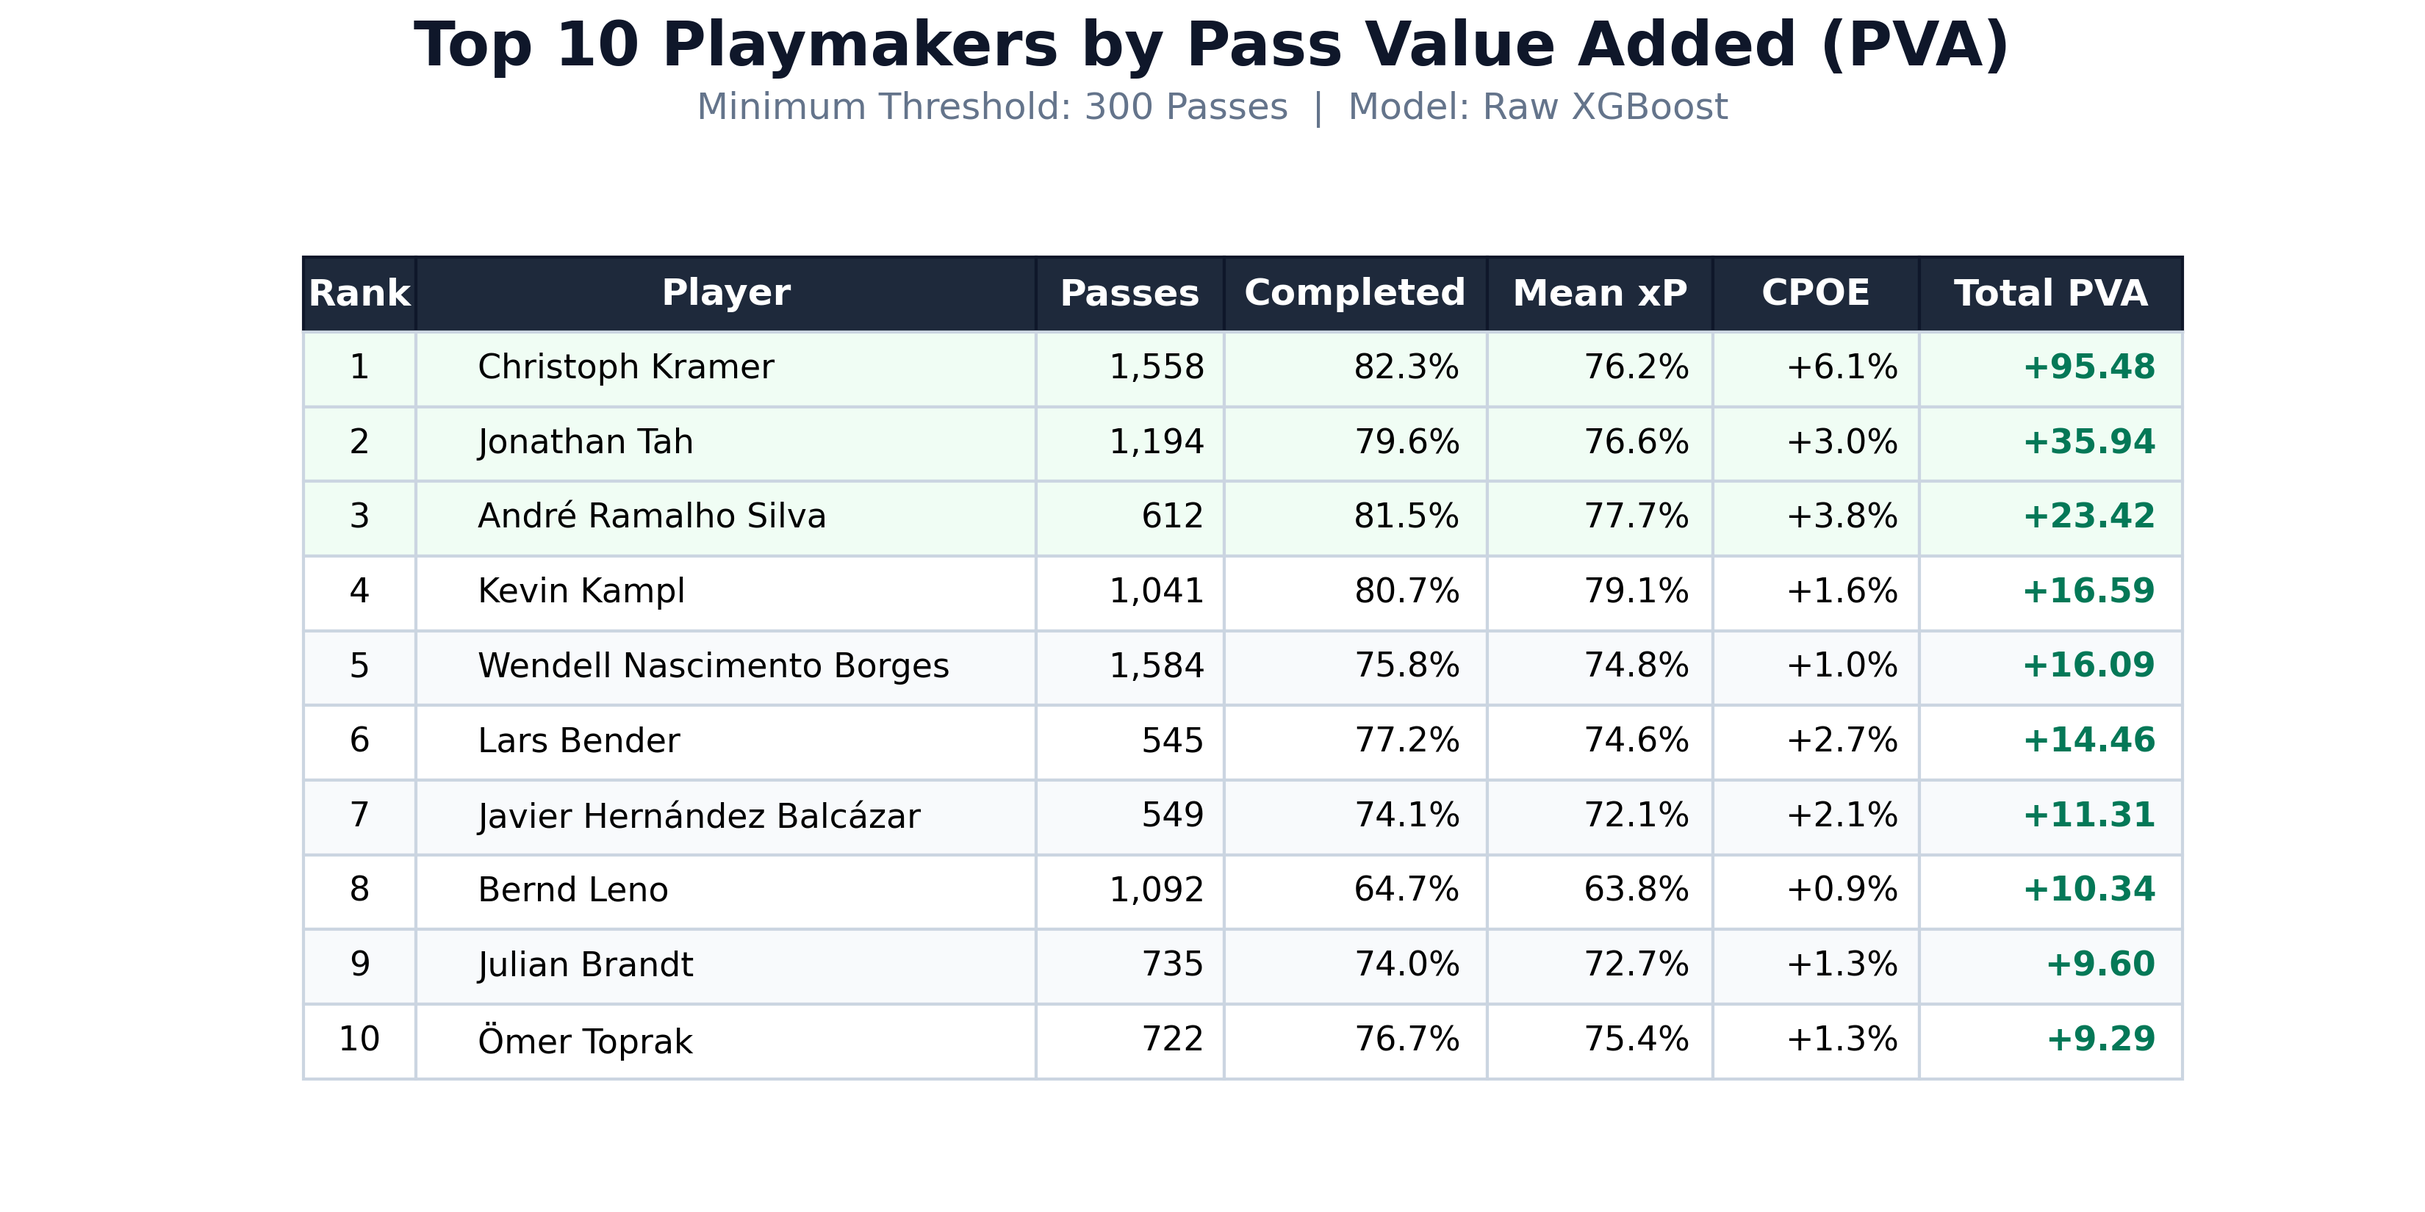
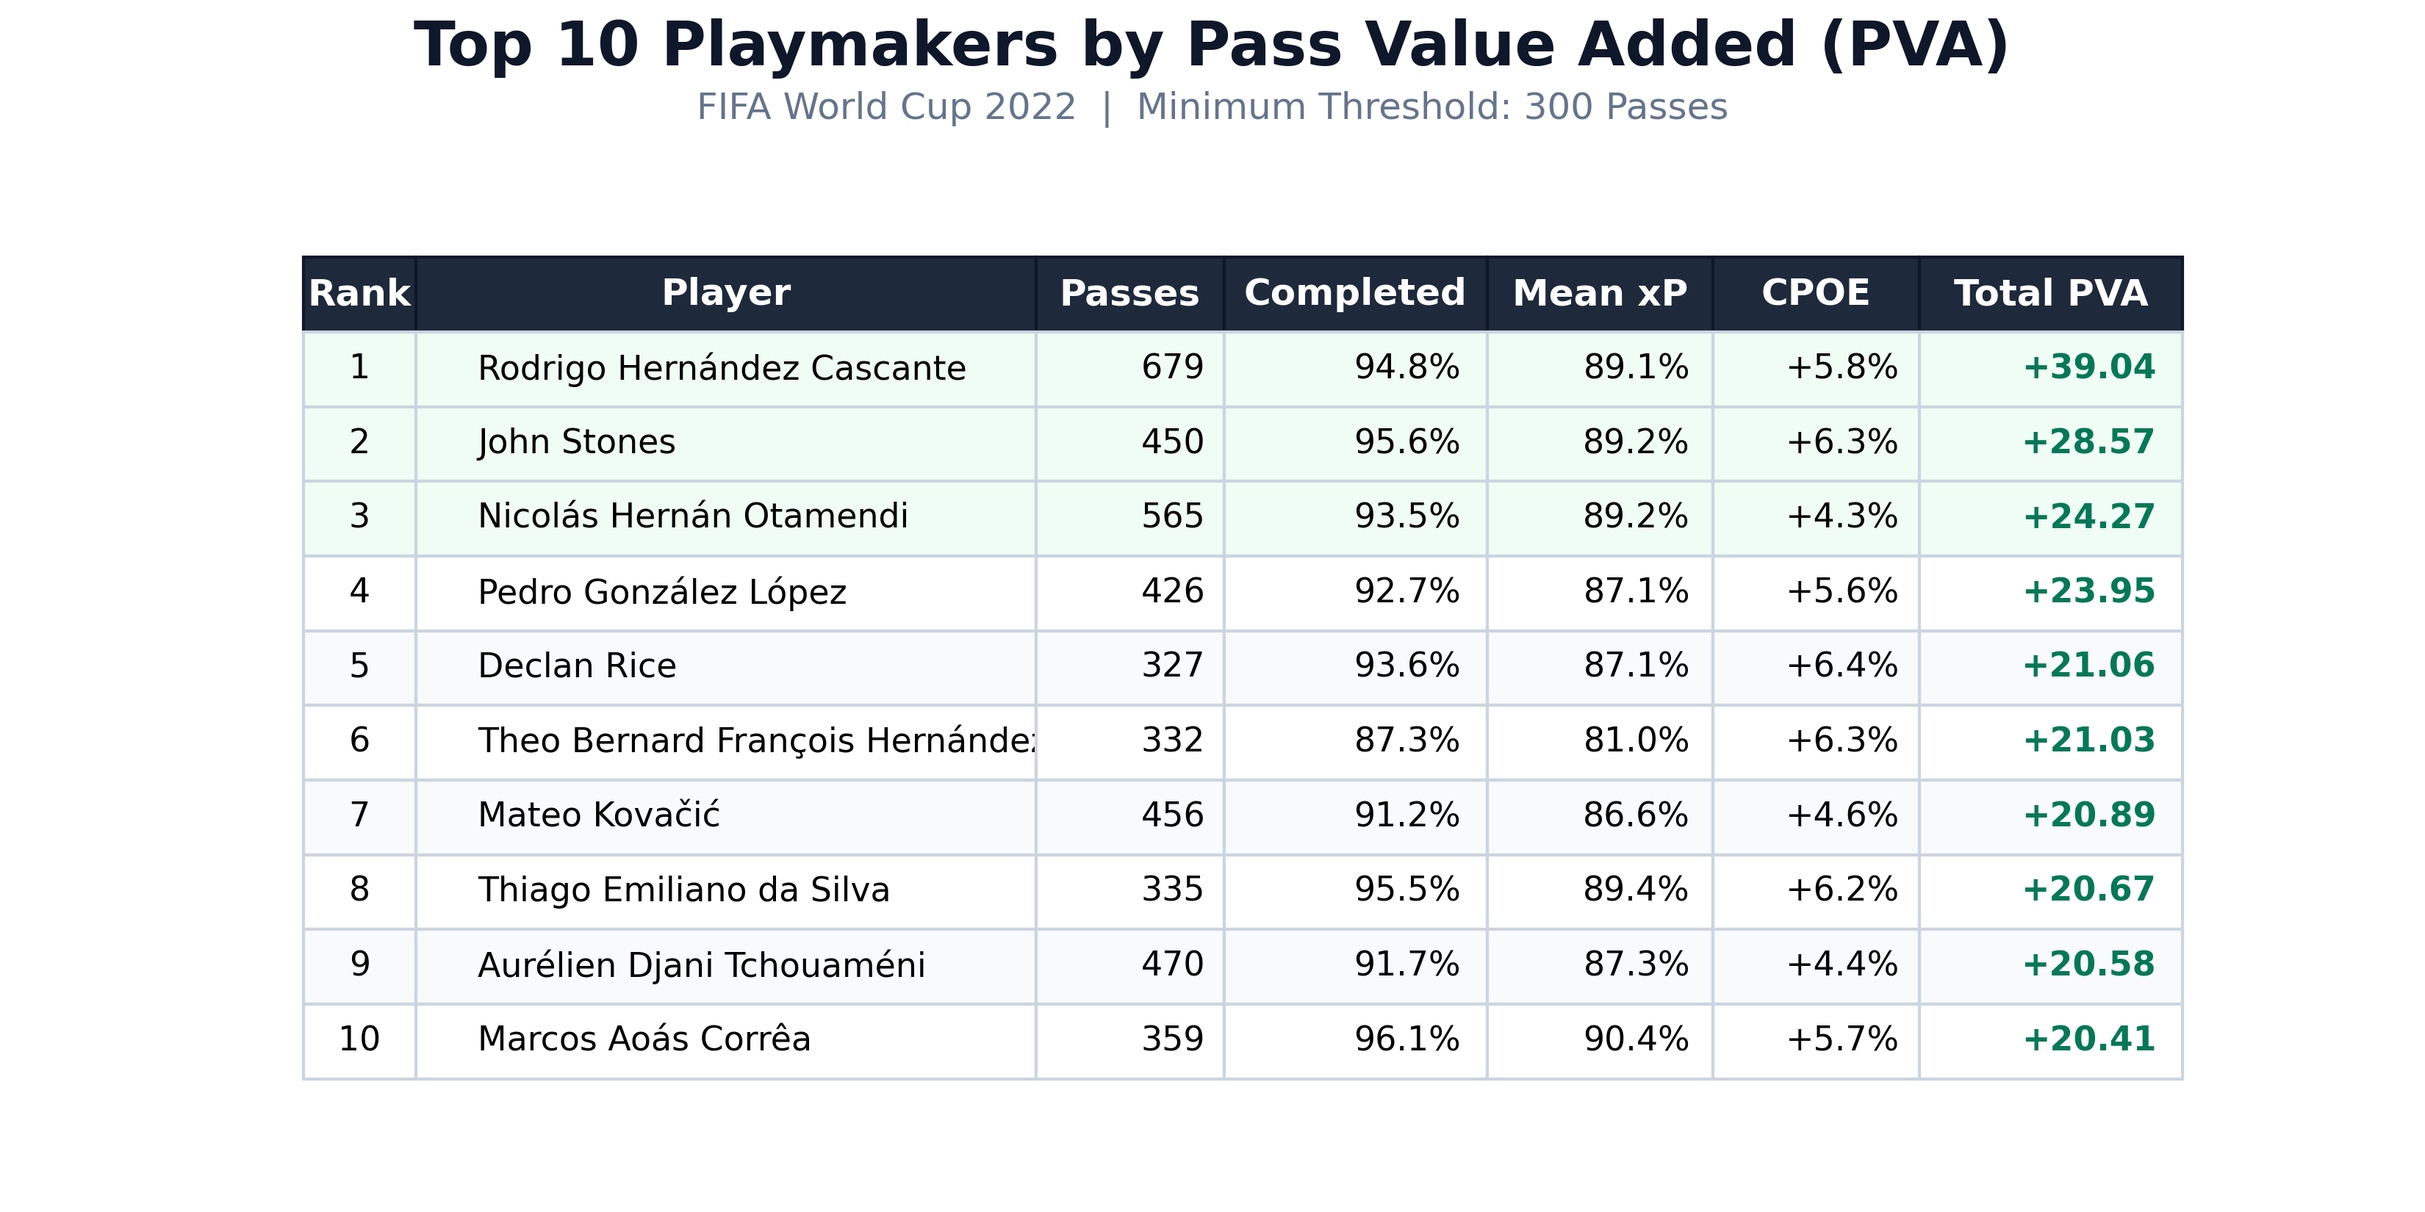
Add league and season to chart subtitles, restyle the pass map and player scatter, and update the README with full-data results after the pass_angle leakage fix and all four example charts.

diff --git a/src/visualizations_pipeline.py b/src/visualizations_pipeline.py
@@ -176,13 +176,14 @@ def draw_leaderboard_table(
     player_df: pd.DataFrame,
     top_n: int = 10,
     min_passes: int = 300,
-    model_label: Optional[str] = None,
+    scope_label: Optional[str] = None,
 ) -> plt.Figure:
     """
     Renders a table of the `top_n` players with the highest total PVA, among players
     with at least `min_passes` passes. The top three rows are highlighted.
 
-    `model_label` (e.g. "Calibrated XGBoost") is shown in the subtitle when given.
+    `scope_label` (the league and season, e.g. "La Liga 2015/2016") is shown in the
+    subtitle when given.
 
     Columns: rank, player, passes, actual completion %, mean xP, CPOE and total PVA.
     """
@@ -276,8 +277,8 @@ def draw_leaderboard_table(
         ha='center', va='center', fontsize=20, weight='bold', color='#0f172a', fontname='DejaVu Sans'
     )
     subtitle = f'Minimum Threshold: {min_passes} Passes'
-    if model_label:
-        subtitle += f'  |  Model: {model_label}'
+    if scope_label:
+        subtitle = f'{scope_label}  |  {subtitle}'
     fig.text(
         0.5, 0.91,
         subtitle,
@@ -320,6 +321,11 @@ Z_SCATTER_FG = 4
 Z_LABELS = 6
 Z_CALLOUTS = 10
 Z_LEGEND = 20
+
+
+def _with_scope(subtitle: str, scope_label: Optional[str]) -> str:
+    """Prefixes a subtitle with the league and season it covers, when one is given."""
+    return f"{scope_label}  ·  {subtitle}" if scope_label else subtitle
 
 
 def shorten_player_name(full_name: str, name_overrides: Optional[Dict[str, str]] = None) -> str:
@@ -420,12 +426,14 @@ def plot_pass_risk_execution(
     label_poor_n: int = 3,
     label_average: bool = False,
     name_overrides: Optional[Dict[str, str]] = None,
-    legend_anchor: Tuple[float, float] = (0.985, 0.5),
+    legend_anchor: Tuple[float, float] = (1.02, 0.5),
     model_label: Optional[str] = None,
+    scope_label: Optional[str] = None,
 ) -> plt.Figure:
     """
     Plots each player's mean xP (x) against their actual completion % (y).
-    `model_label` (e.g. "Calibrated XGBoost") is named in the footnote when given.
+    `model_label` (e.g. "Calibrated XGBoost") is named in the footnote and `scope_label`
+    (e.g. "La Liga 2015/2016") in the subtitle when given.
 
     The dashed diagonal is "completed exactly as many passes as expected". Players above it
     beat the model, players below it fall short, and the vertical distance from the line
@@ -457,10 +465,12 @@ def plot_pass_risk_execution(
     sizes = _scaled_bubble_sizes(df['total_passes'])
 
     plt.rcParams['font.family'] = FONT
-    fig, ax = plt.subplots(figsize=(13, 8.8), dpi=300)
+    fig, ax = plt.subplots(figsize=(14, 8.8), dpi=300)
     fig.patch.set_facecolor(PALETTE["bg_figure"])
     ax.set_facecolor(PALETTE["bg_axes"])
-    fig.subplots_adjust(top=0.89, bottom=0.11, left=0.08, right=0.96)
+    # The axes stop at 74% of the width, leaving room for the legend on the right
+    left, right = 0.08, 0.74
+    fig.subplots_adjust(top=0.87, bottom=0.11, left=left, right=right)
 
     # Background shading: actual minus expected at every point of the chart, so the colour
     # itself shows CPOE (green above the diagonal, red below)
@@ -558,16 +568,17 @@ def plot_pass_risk_execution(
         ax.spines[side].set_color(PALETTE["spine"])
         ax.spines[side].set_linewidth(1.1)
 
-    fig.text(0.52, 0.97, "Pass Risk vs. Execution", fontsize=24, weight="bold",
+    cx = (left + right) / 2
+    fig.text(cx, 0.945, "Pass Risk vs. Execution", fontsize=24, weight="bold",
               color=PALETTE["text_dark"], ha="center")
-    fig.text(0.52, 0.935, "Completion Percentage Over Expected (CPOE) — who beats their model, and by how much",
+    fig.text(cx, 0.905, _with_scope("Completion Percentage Over Expected (CPOE) — who beats their model", scope_label),
               fontsize=13, color=PALETTE["text_mid"], ha="center")
-    fig.text(0.96, 0.97, f"n = {len(df)}", fontsize=11, color=PALETTE["text_light"],
+    fig.text(0.96, 0.945, f"n = {len(df)}", fontsize=11, color=PALETTE["text_light"],
               ha="right", weight="bold")
-    fig.text(0.96, 0.948, f"min. {min_passes} passes", fontsize=9.5, color=PALETTE["text_light"], ha="right")
+    fig.text(0.96, 0.922, f"min. {min_passes} passes", fontsize=9.5, color=PALETTE["text_light"], ha="right")
 
     model_note = f"Model: {model_label}  ·  " if model_label else ""
-    fig.text(0.08, 0.015,
+    fig.text(left, 0.015,
               f"Dashed line: y = x (expected completion)  ·  {model_note}"
               "bubble size ∝ total pass volume  ·  background shade ∝ CPOE",
               fontsize=9.5, color=PALETTE["text_light"], ha="left", style="italic")
@@ -608,10 +619,10 @@ def plot_pass_risk_execution(
 
     combo_legend = ax.legend(
         combo_handles, combo_labels,
-        loc='center right', bbox_to_anchor=legend_anchor,
+        loc='center left', bbox_to_anchor=legend_anchor,
         frameon=True, fancybox=True, framealpha=0.94,
         facecolor=PALETTE["legend_face"], edgecolor=PALETTE["spine"],
-        fontsize=10.5, handletextpad=0.9, labelspacing=0.75, borderpad=1.0,
+        fontsize=10, handletextpad=0.9, labelspacing=0.75, borderpad=1.0,
     )
     combo_legend.set_zorder(Z_LEGEND)
 
@@ -642,9 +653,11 @@ def plot_team_pass_quadrants(
     label_all: bool = True,
     max_labels: Optional[int] = 30,
     legend_anchor: Tuple[float, float] = (1.02, 0.5),
+    scope_label: Optional[str] = None,
 ) -> plt.Figure:
     """
     Plots each team's mean xP (x) against its CPOE (y), sized by pass volume.
+    `scope_label` (e.g. "La Liga 2015/2016") is shown in the subtitle when given.
 
     The dotted crosshairs at the league-average xP and CPOE split the chart into four
     styles of play, from "aggressive & executing" (top-left) to "safe & struggling"
@@ -783,7 +796,7 @@ def plot_team_pass_quadrants(
     cx = (left + right) / 2
     fig.text(cx, 0.945, "Team Pass Risk vs. Execution", fontsize=24, weight="bold",
              color=PALETTE["text_dark"], ha="center")
-    fig.text(cx, 0.905, "Mean xP vs. Completion Percentage Over Expected (CPOE) — who takes risk, who delivers",
+    fig.text(cx, 0.905, _with_scope("Mean xP vs. CPOE — who takes risk, who delivers", scope_label),
              fontsize=13, color=PALETTE["text_mid"], ha="center")
     fig.text(0.96, 0.945, f"n = {len(df)}", fontsize=11, color=PALETTE["text_light"],
              ha="right", weight="bold")
@@ -862,13 +875,14 @@ PASS_REQUIRED_COLUMNS = [
     "pass_outcome", "xP",
 ]
 
-# Dark pitch theme for the pass map
-BG_COLOR = "#0f172a"
-LINE_COLOR = "#334155"
+# Dark green pitch theme for the pass map. The completed-pass green leans towards yellow
+# (lime) so it stands out from the pitch instead of blending into it.
+BG_COLOR = "#0b3d20"
+LINE_COLOR = "#5f8f6e"
 TITLE_COLOR = "#f8fafc"
-SUBTITLE_COLOR = "#94a3b8"
-COMPLETE_COLOR = "#10b981"
-FAILED_COLOR = "#ef4444"
+SUBTITLE_COLOR = "#b7d3bf"
+COMPLETE_COLOR = "#7dff3a"
+FAILED_COLOR = "#ff3b3b"
 
 
 def _prepare_pva(pva_df: pd.DataFrame) -> pd.DataFrame:
@@ -946,13 +960,14 @@ def plot_top_player_pass_map(
     passes_df: pd.DataFrame,
     min_passes: int = 300,
     figsize: tuple[float, float] = (13, 9),
+    scope_label: Optional[str] = None,
 ) -> Figure:
     """
     Draws every pass attempted by the player with the highest total PVA.
 
     Completed passes are green and failed passes red, on a StatsBomb pitch with play
-    going left to right. The subtitle compares the player's completion rate with their
-    mean xP and shows their total PVA.
+    going left to right. The subtitle names the league and season (`scope_label`, when
+    given), compares the player's completion rate with their mean xP and shows their total PVA.
     """
     pva_data = _prepare_pva(pva_df)
     pass_data = _prepare_passes(passes_df)
@@ -996,14 +1011,14 @@ def plot_top_player_pass_map(
         pitch.arrows(
             completed["start_x"], completed["start_y"],
             completed["end_x"], completed["end_y"],
-            ax=ax, color=COMPLETE_COLOR, alpha=0.70,
+            ax=ax, color=COMPLETE_COLOR, alpha=0.80,
             width=1.6, headwidth=3, headlength=3, zorder=2,
         )
     if not failed.empty:
         pitch.arrows(
             failed["start_x"], failed["start_y"],
             failed["end_x"], failed["end_y"],
-            ax=ax, color=FAILED_COLOR, alpha=0.90,
+            ax=ax, color=FAILED_COLOR, alpha=0.95,
             width=1.8, headwidth=3, headlength=3, zorder=3,
         )
 
@@ -1011,7 +1026,7 @@ def plot_top_player_pass_map(
     cpoe_sign = "+" if cpoe >= 0 else "−"
 
     ax.text(
-        0.0, 1.11, f"{player_name} — Pass Map & Value Added (PVA)",
+        0.0, 1.11, f"{player_name} — Pass Map",
         transform=ax.transAxes, ha="left", va="bottom",
         fontsize=21, fontweight="bold", color=TITLE_COLOR,
     )
@@ -1019,6 +1034,8 @@ def plot_top_player_pass_map(
         f"{n_passes:,} passes  |  Completion {actual_pct:.1f}% vs. expected {expected_pct:.1f}%  |  "
         f"CPOE {cpoe_sign}{abs(cpoe):.1f} pp  |  Net PVA {pva_sign}{abs(total_pva):.2f}"
     )
+    if scope_label:
+        subtitle = f"{scope_label}  |  {subtitle}"
     ax.text(
         0.0, 1.05, subtitle,
         transform=ax.transAxes, ha="left", va="bottom",

diff --git a/run_files/run_visualizations.py b/run_files/run_visualizations.py
@@ -150,6 +150,36 @@ def match_ids_in_scope(league: str, season: str) -> set:
     return {os.path.splitext(os.path.basename(p))[0] for p in glob.glob(pattern, recursive=True)}
 
 
+def scope_of_matches(match_ids) -> tuple:
+    """
+    Works out the (league, season) that a set of match ids comes from, using the raw
+    folder each match file sits in. season is None when the matches span several seasons
+    of one league, and both are None when they span several leagues.
+    """
+    match_ids = {str(m) for m in match_ids}
+    folders = set()
+    for path in glob.glob(os.path.join(RAW_DIR, "*", "*", "*.json")):
+        if os.path.splitext(os.path.basename(path))[0] in match_ids:
+            season_dir = os.path.dirname(path)
+            folders.add((os.path.basename(os.path.dirname(season_dir)), os.path.basename(season_dir)))
+
+    leagues = {league for league, _ in folders}
+    if len(leagues) != 1:
+        return None, None
+    league = leagues.pop()
+    return league, (folders.pop()[1] if len(folders) == 1 else None)
+
+
+def scope_label(league: str, season: str):
+    """Chart label for a scope, e.g. "La Liga 2015/2016" or "La Liga · all seasons"; None without a league."""
+    if not league:
+        return None
+    if not season:
+        return f"{league} · all seasons"
+    # Season folders use "-" because "/" can't appear in a folder name
+    return f"{league} {season.replace('-', '/')}"
+
+
 def deployed_model_label(model_dir: str):
     """
     Returns which model version a training run deployed ("Calibrated XGBoost" or
@@ -268,6 +298,9 @@ def main():
         post_team_df = pd.read_csv(latest_post_team)
         console.info(f"Team analysis: {os.path.basename(latest_post_team)}")
 
+        # The dataset has no league / season column, so find them from the raw match folders
+        league, season = scope_of_matches(pre_df['match_id'].unique())
+
     console.success(f"Loaded {len(pre_df):,} passes · {len(post_player_df):,} players · {len(post_team_df):,} teams")
 
     n_matches = pre_df['match_id'].nunique()
@@ -281,16 +314,21 @@ def main():
     if min_passes < DEFAULT_MIN_PASSES:
         console.info(f"Minimum passes per player lowered to {min_passes} for this scope (normally {DEFAULT_MIN_PASSES}).")
 
+    # Shown in every chart's subtitle
+    chart_scope = scope_label(league, season)
+
     console.section("Drawing figures")
     console.info("Drawing 4 figures...")
 
-    fig_leaderboard_table = draw_leaderboard_table(post_player_df, min_passes=min_passes, model_label=model_label)
+    fig_leaderboard_table = draw_leaderboard_table(post_player_df, min_passes=min_passes, scope_label=chart_scope)
     console.success("Drew player leaderboard table")
-    fig_plot_pass_risk_execution = plot_pass_risk_execution(post_player_df, min_passes=min_passes, model_label=model_label)
+    fig_plot_pass_risk_execution = plot_pass_risk_execution(post_player_df, min_passes=min_passes, model_label=model_label,
+                                                            scope_label=chart_scope)
     console.success("Drew pass risk vs execution scatter")
-    fig_plot_top_player_pass_map = plot_top_player_pass_map(pva_df=post_player_df, passes_df=pre_df, min_passes=min_passes)
+    fig_plot_top_player_pass_map = plot_top_player_pass_map(pva_df=post_player_df, passes_df=pre_df, min_passes=min_passes,
+                                                            scope_label=chart_scope)
     console.success("Drew top player pass map")
-    fig_plot_team_pass_quadrants = plot_team_pass_quadrants(post_team_df)
+    fig_plot_team_pass_quadrants = plot_team_pass_quadrants(post_team_df, scope_label=chart_scope)
     console.success("Drew team pass quadrants")
 
     # Figures go in the model's "visuals" folder: .../model_<timestamp>/visuals

diff --git a/README.md b/README.md
@@ -4,14 +4,14 @@ xPass is an expected pass-completion model. It gives every pass a probability of
 
 ## Results
 
-These results come from a check run on **1. Bundesliga 2015/2016** (**30,934 passes**, **34 matches**). The test set is about 15% of the matches (6 matches, 5,614 passes), split by `match_id` so no match appears in both training and test. The scores below are for the **raw XGBoost** model, which was deployed because its test log-loss (0.4676) was lower than the calibrated model's (0.4677).
+The model is an XGBoost classifier with isotonic calibration. It was trained on **3,836,550 passes** from **3,961 StatsBomb match files**. The test set is about 15% of the matches (595 matches, 570,769 passes), split by `match_id` so no match appears in both training and test. The scores below are for the **calibrated** model, which was deployed because its test log-loss (0.4007) was lower than the raw XGBoost model's (0.4009).
 
 | Metric   | Hold-out score (85/15 split by match) |
 |----------|---------------------------------------|
-| ROC AUC  | 0.7998                                |
-| Log-loss | 0.4676                                |
-| Brier    | 0.1536                                |
-| Accuracy | 0.7720                                |
+| ROC AUC  | 0.8328                                |
+| Log-loss | 0.4007                                |
+| Brier    | 0.1266                                |
+| Accuracy | 0.8201                                |
 
 `pass_angle` was removed from the features because StatsBomb derives it from the pass end location, so it leaked the outcome.
 It was replaced by `angle_to_goal`, which only uses the start location, so the model can score a pass before it is played.
@@ -26,11 +26,23 @@ Read these numbers together with the [Limitations](#limitations) below.
 
 ![SHAP summary](docs/shap_diagram.png)
 
-**Example output.** A player leaderboard ranked by total PVA, and a pass map for the top player:
+**Example output.** The four charts the pipeline draws, here for the 2022 FIFA World Cup:
 
 ![Player leaderboard](docs/player_leaderboard.png)
 
+*Player leaderboard: the 10 players with the highest total PVA among those with at least 300 passes. Rodri tops it at +39.04, completing 94.8% of his passes against an expected 89.1%.*
+
+![Player pass risk vs. execution](docs/player_risk_execution.png)
+
+*Player pass risk vs. execution: each bubble is a player, with mean xP on the x-axis and actual completion % on the y-axis. Players above the dashed diagonal complete more passes than the model expects, and players further left attempt harder passes. Bubble size shows pass volume, and colour shows the CPOE tier.*
+
+![Team pass risk vs. execution](docs/team_pass_quadrants.png)
+
+*Team pass risk vs. execution: each bubble is a team, with mean xP on the x-axis and CPOE on the y-axis. The dotted tournament-average lines split teams into four styles, from aggressive and executing (top left) to safe and struggling (bottom right). Spain have the highest CPOE.*
+
 ![Top player pass map](docs/top_player_pass_map.png)
+
+*Pass map of the leaderboard's top player, Rodri: 679 passes, completed in green and failed in red, attacking left to right.*
 
 ## Limitations
 
